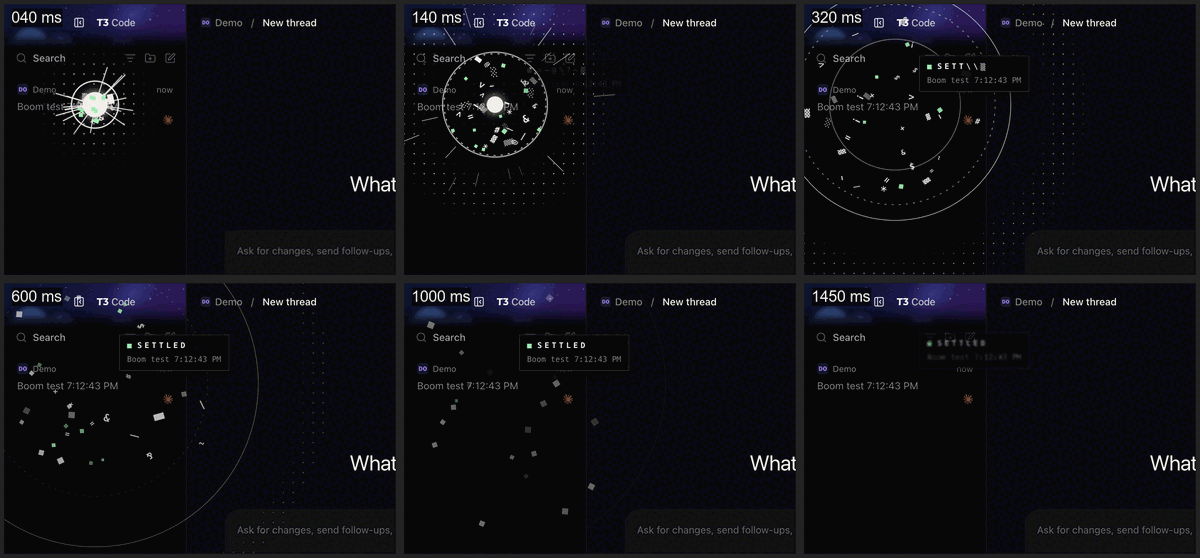
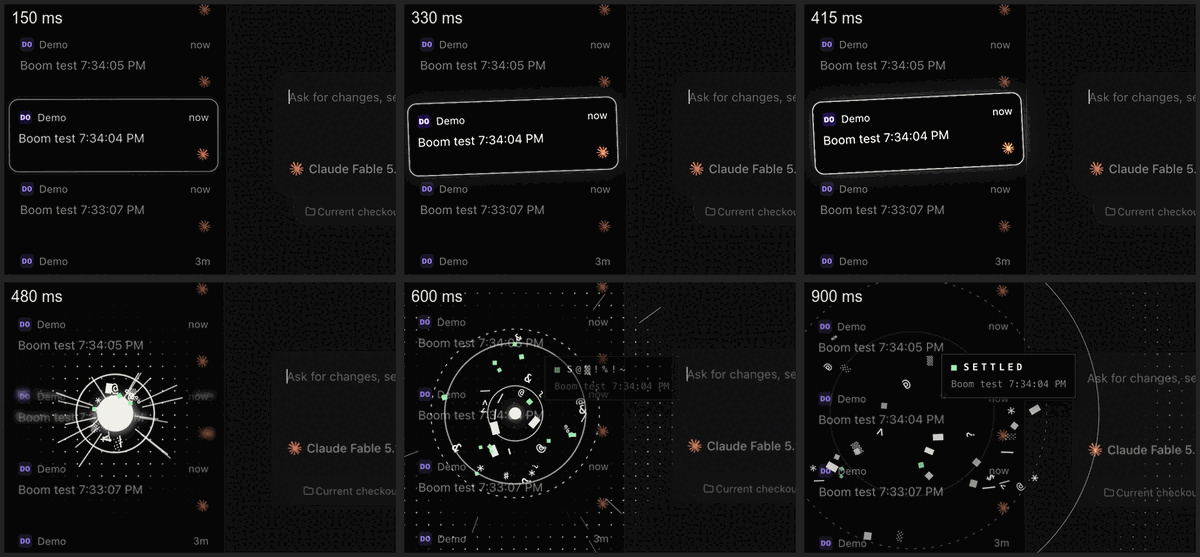
Settle Boom: start on the settle command and explode a copy of the row

diff --git a/examples/settle-boom/renderer.js b/examples/settle-boom/renderer.js
@@ -6,6 +6,7 @@ if (!window.t3SettleBoom) {
   const GLYPHS = "@#$%&*/=-+?!~<>\\|█▓▒░";
   const WORD = "SETTLED";
   const DURATION = 1800;
+  const CHARGE = 420;
   const MUTED_KEY = "t3ext.settle-boom.muted";
   const ROW = "[data-thread-item]";
 
@@ -17,37 +18,63 @@ if (!window.t3SettleBoom) {
   const easeOutCubic = (p) => 1 - (1 - p) ** 3;
   const monoFont = () => getComputedStyle(document.documentElement).getPropertyValue("--font-mono").trim() || "ui-monospace, Menlo, monospace";
 
-  // --- Where the thread was --------------------------------------------------------------------
+  // --- Which thread, and where ----------------------------------------------------------------
 
   // A row's data-thread-item is "<environmentId>:<threadId>".
-  const threadIdOf = (row) => row.getAttribute("data-thread-item").split(":").pop();
-  const rowFor = (threadId) => [...document.querySelectorAll(ROW)].find((row) => threadIdOf(row) === threadId);
+  const rowFor = (threadId) => [...document.querySelectorAll(ROW)].find((row) => row.getAttribute("data-thread-item").endsWith(`:${threadId}`));
 
-  // Clicking Settle removes the row before the server confirms, so remember rows as they are used.
-  const touched = new Map();
-  const remember = (event) => {
-    const row = event.target instanceof Element ? event.target.closest(ROW) : null;
-    if (row) touched.set(threadIdOf(row), { rect: row.getBoundingClientRect(), at: performance.now() });
+  const backgroundOf = (node) => {
+    for (let at = node; at; at = at.parentElement) {
+      const color = getComputedStyle(at).backgroundColor;
+      if (color && color !== "transparent" && !/rgba\(.*, 0\)$/.test(color)) return color;
+    }
+    return "black";
   };
-  for (const type of ["pointerdown", "contextmenu", "focusin"]) addEventListener(type, remember, true);
 
-  function originFor(threadId) {
-    const remembered = touched.get(threadId);
-    const rect = rowFor(threadId)?.getBoundingClientRect() ?? (remembered && performance.now() - remembered.at < 10_000 ? remembered.rect : null);
-    if (rect && rect.width > 0) return { x: rect.left + rect.width / 2, y: rect.top + rect.height / 2 };
-    return { x: innerWidth / 2, y: innerHeight / 2 };
+  // Everything the effect needs from the row, taken while it is still on screen: T3 moves it to
+  // Settled right after. Without a row (a filter hides it, its project is collapsed) the effect
+  // plays in the middle of the window.
+  function target(threadId, title) {
+    const row = rowFor(threadId);
+    const rect = row?.getBoundingClientRect();
+    if (!rect?.width) return { x: innerWidth / 2, y: innerHeight / 2, title: title ?? "" };
+    const copy = row.cloneNode(true);
+    copy.removeAttribute("data-thread-item");
+    return {
+      x: rect.left + rect.width / 2,
+      y: rect.top + rect.height / 2,
+      title: title ?? row.innerText.split("\n")[0],
+      row: { copy, rect, background: backgroundOf(row) },
+    };
   }
 
   // --- When a thread settles -------------------------------------------------------------------
 
-  // The server pushes `thread.updated` with `settledAt` set when a thread settles, by hand or
-  // automatically. The socket opened before this script ran, so the frames are read through the
-  // MessageEvent `data` getter instead of a listener. It runs inside T3's own handler, before
-  // T3 removes the row, so it must never throw.
+  // Settling in this window (the row's Settle button, the thread menu, ⌘⇧S) sends a
+  // `thread.settle` command before T3 moves the row, so the effect starts there. Settles from
+  // anywhere else (auto-settle, an agent, another window) arrive as a `thread.updated` push with
+  // `settledAt` set, read before T3 handles it. The socket opened before this script ran, so
+  // both hooks sit on prototypes. They run inside T3's own code, so they must never throw.
   const FRESH_MS = 30_000;
   const seen = new Set();
+  const sent = new Map();
 
-  function onFrame(text) {
+  const guard = (fn) => (...args) => {
+    try {
+      fn(...args);
+    } catch (error) {
+      console.error("[settle-boom]", error);
+    }
+  };
+
+  const onSend = guard((text) => {
+    const command = JSON.parse(text).payload;
+    if (command?.type !== "thread.settle") return;
+    sent.set(command.threadId, Date.now());
+    boom(target(command.threadId));
+  });
+
+  const onFrame = guard((text) => {
     const frame = JSON.parse(text);
     for (const value of Array.isArray(frame?.values) ? frame.values : []) {
       const thread = value?.kind === "thread.updated" ? value.thread : null;
@@ -55,9 +82,17 @@ if (!window.t3SettleBoom) {
       const key = `${thread.id}@${thread.settledAt}`;
       if (seen.has(key)) continue;
       seen.add(key);
-      if (Date.now() - Date.parse(thread.settledAt) < FRESH_MS) boom({ ...originFor(thread.id), title: thread.title });
+      if (Date.now() - Date.parse(thread.settledAt) >= FRESH_MS) continue;
+      if (Date.now() - (sent.get(thread.id) ?? 0) < FRESH_MS) continue;
+      boom(target(thread.id, thread.title));
     }
-  }
+  });
+
+  const send = WebSocket.prototype.send;
+  WebSocket.prototype.send = function (payload) {
+    if (typeof payload === "string" && payload.includes('"type":"thread.settle"')) onSend(payload);
+    return send.call(this, payload);
+  };
 
   const data = Object.getOwnPropertyDescriptor(MessageEvent.prototype, "data");
   const inspected = new WeakSet();
@@ -67,13 +102,7 @@ if (!window.t3SettleBoom) {
       const value = data.get.call(this);
       if (typeof value === "string" && !inspected.has(this) && this.target instanceof WebSocket) {
         inspected.add(this);
-        if (value.includes('"settledAt":"')) {
-          try {
-            onFrame(value);
-          } catch (error) {
-            console.error("[settle-boom]", error);
-          }
-        }
+        if (value.includes('"settledAt":"')) onFrame(value);
       }
       return value;
     },
@@ -134,23 +163,40 @@ if (!window.t3SettleBoom) {
     root.animate([{ transform: "none" }, ...hops, { transform: "none" }], { duration: 380, easing: "ease-out" });
   }
 
-  function boom({ x, y, title = "", pauseAt = null }) {
+  function ghost({ copy, rect, background }) {
+    const node = document.createElement("div");
+    node.className = "t3-settle-boom-ghost";
+    Object.assign(node.style, { left: `${rect.left}px`, top: `${rect.top}px`, width: `${rect.width}px`, height: `${rect.height}px`, background });
+    node.append(copy);
+    document.body.append(node);
+    return node;
+  }
+
+  function boom({ x, y, title = "", row = null, pauseAt = null }) {
     const calm = reducedMotion.matches;
+    const charge = row && !calm ? CHARGE : 0;
     scenes.push({
       x,
       y,
       calm,
+      charge,
       pauseAt,
       start: performance.now(),
       spin: rand(0, Math.PI * 2),
       debris: calm ? [] : debris(),
       sparks: calm ? [] : sparks(),
+      ghost: row ? ghost(row) : null,
       label: label(x, y, title),
+      shaken: calm,
     });
-    if (!calm) shake();
-    sound.play();
+    sound.play(charge / 1000);
     if (!frame) frame = requestAnimationFrame(tick);
   }
+
+  const removeScene = (scene) => {
+    scene.label.node.remove();
+    scene.ghost?.remove();
+  };
 
   function tick(now) {
     frame = 0;
@@ -169,8 +215,8 @@ if (!window.t3SettleBoom) {
     ctx.clearRect(0, 0, innerWidth, innerHeight);
     scenes = scenes.filter((scene) => {
       const elapsed = Math.min(now - scene.start, scene.pauseAt ?? Infinity);
-      if (elapsed >= DURATION) {
-        scene.label.node.remove();
+      if (elapsed >= scene.charge + DURATION) {
+        removeScene(scene);
         return false;
       }
       draw(scene, elapsed);
@@ -183,18 +229,47 @@ if (!window.t3SettleBoom) {
     }
   }
 
+  // `e` counts from the start; the blast starts after the row's charge.
   function draw(scene, e) {
+    drawGhost(scene, e);
+    const b = e - scene.charge;
+    if (b < 0) return;
+    if (!scene.shaken) {
+      scene.shaken = true;
+      shake();
+    }
     const { x, y } = scene;
     ctx.save();
-    if (!scene.calm) drawGrid(x, y, e);
-    drawRings(scene, e);
+    if (!scene.calm) drawGrid(x, y, b);
+    drawRings(scene, b);
     if (!scene.calm) {
-      drawCore(x, y, e);
-      drawSparks(scene, e);
-      drawDebris(scene, e);
+      drawCore(x, y, b);
+      drawSparks(scene, b);
+      drawDebris(scene, b);
     }
     ctx.restore();
-    drawLabel(scene, e);
+    drawLabel(scene, b);
+  }
+
+  // The row's copy shakes harder and brightens, like a failing effect in the Institute, then
+  // bursts. Each 45 ms hop has its own fixed offset, so a paused frame holds still.
+  function drawGhost(scene, e) {
+    const node = scene.ghost;
+    if (!node) return;
+    if (e < scene.charge) {
+      const p = e / scene.charge;
+      const hop = Math.floor(e / 45);
+      const jitter = (n) => (Math.sin(hop * 12.9898 + n * 78.233) * 43758.5453) % 1;
+      const amp = 1.5 + 5 * p;
+      node.style.transform = `translate(${(jitter(1) * amp).toFixed(2)}px, ${(jitter(2) * amp * 0.6).toFixed(2)}px) rotate(${(jitter(3) * p * 3).toFixed(2)}deg)`;
+      node.style.filter = `brightness(${(1 + p * 1.6).toFixed(2)}) contrast(${(1 + p * 0.4).toFixed(2)})`;
+      node.style.boxShadow = `0 0 0 1px rgba(${INK}, ${(0.25 + p * 0.6).toFixed(2)}), 0 0 ${(24 * p).toFixed(1)}px rgba(${INK}, ${(0.35 * p).toFixed(2)})`;
+      return;
+    }
+    const p = clamp01((e - scene.charge) / 140);
+    node.style.transform = `scale(${(1 + p * 0.12).toFixed(3)})`;
+    node.style.filter = `brightness(${(2.6 - p).toFixed(2)}) blur(${(p * 6).toFixed(2)}px)`;
+    node.style.opacity = String(1 - p);
   }
 
   // The dot grid lights up as the shock wave passes through it.
@@ -395,7 +470,14 @@ if (!window.t3SettleBoom) {
       thump.frequency.exponentialRampToValueAtTime(36, t + 0.35);
     }
 
-    function schedule(g, t) {
+    // While the row charges: quick rising sine ticks, the Institute's "running" blips.
+    function schedule(g, t, charge) {
+      if (charge > 0) {
+        [659.25, 783.99, 880].forEach((frequency, i) =>
+          voice(g, "sine", frequency, t + (i * charge) / 3, { attack: 0.002, decay: 0.08, sustain: 0, hold: 0.03, release: 0.1, peak: 0.3 }, [g.out, g.wet]),
+        ); // E5 G5 A5
+        t += charge;
+      }
       blast(g, t);
       fatSaw(g, 155.56, t, { attack: 0.01, decay: 0.5, sustain: 0.3, hold: 0.0625, release: 1.5, peak: 0.45 }); // D#3
       fatSaw(g, 32.7, t + 0.1, { attack: 0.01, decay: 0.5, sustain: 0.3, hold: 0.5, release: 1.2, peak: 0.55 }); // C1
@@ -406,15 +488,15 @@ if (!window.t3SettleBoom) {
 
     const context = () => (live ??= graph(new AudioContext())).audio;
 
-    function play() {
+    function play(charge = 0) {
       if (localStorage.getItem(MUTED_KEY) === "1") return;
       if (context().state === "suspended") context().resume();
-      schedule(live, context().currentTime + 0.01);
+      schedule(live, context().currentTime + 0.01, charge);
     }
 
-    function render(seconds = 3.2, sampleRate = 44_100) {
+    function render(charge = CHARGE / 1000, seconds = 3.6, sampleRate = 44_100) {
       const offline = new OfflineAudioContext(2, Math.ceil(seconds * sampleRate), sampleRate);
-      schedule(graph(offline), 0.01);
+      schedule(graph(offline), 0.01, charge);
       return offline.startRendering();
     }
 
@@ -425,11 +507,12 @@ if (!window.t3SettleBoom) {
   })();
 
   window.t3SettleBoom = {
-    // Plays the effect at a point (default: the middle of the window). `pauseAt` freezes it at
-    // that many milliseconds, for screenshots.
-    play: ({ x = innerWidth / 2, y = innerHeight / 2, title = "", pauseAt = null } = {}) => boom({ x, y, title, pauseAt }),
+    // Plays the effect on a thread's row, or at a point (default: the middle of the window).
+    // `pauseAt` freezes it at that many milliseconds, for screenshots.
+    play: ({ threadId = null, x = innerWidth / 2, y = innerHeight / 2, title = "", pauseAt = null } = {}) =>
+      boom({ ...(threadId ? target(threadId) : { x, y, title }), pauseAt }),
     clear: () => {
-      for (const scene of scenes) scene.label.node.remove();
+      scenes.forEach(removeScene);
       scenes = [];
     },
     get muted() {

diff --git a/examples/settle-boom/style.css b/examples/settle-boom/style.css
@@ -7,6 +7,16 @@
   z-index: 2147483646;
 }
 
+.t3-settle-boom-ghost {
+  position: fixed;
+  z-index: 2147483645;
+  pointer-events: none;
+  list-style: none;
+  border-radius: var(--radius, 0.625rem);
+  transform-origin: center;
+  will-change: transform, filter, opacity;
+}
+
 .t3-settle-boom-label {
   position: fixed;
   z-index: 2147483647;

diff --git a/examples/settle-boom/README.md b/examples/settle-boom/README.md
@@ -1,33 +1,39 @@
 # Settle Boom
 
-When a thread settles, this extension sets off a small explosion where its sidebar row was, with a synthesized boom. The look and sound follow Kit Langton's [Effect Institute](https://www.effect.institute/): off-white ink on black, a dot grid, thin rings, glitch glyphs, small green squares, and Tone.js-style voices.
+When a thread settles, its sidebar row shakes, charges up and explodes, with a synthesized boom. The look and sound follow Kit Langton's [Effect Institute](https://www.effect.institute/): off-white ink on black, a dot grid, thin rings, glitch glyphs, small green squares, and Tone.js-style voices.
 
-![Frames at 40, 140, 320, 600, 1000 and 1450 ms](preview.png)
+![Frames at 150, 330, 415, 480, 600 and 900 ms](preview.png)
 
 ## What it does
 
-1. **Flash:** a white core flashes.
-2. **Rings:** three thin rings expand, the middle one dashed and turning.
-3. **Dot grid:** a shock wave lights up a dot grid as it passes.
-4. **Debris:** sparks streak out, and glyphs fly out, flicker through `@#$%&*/=-+?!~<>\|█▓▒░` and cool into squares.
-5. **Label:** a "■ SETTLED" label with the thread's title resolves letter by letter, then blurs away.
-6. **Shake:** the window shakes slightly.
+1. **Charge:** a copy of the row stays where the row was, then shakes harder and brightens for 0.4 seconds while three quick rising ticks play. It then bursts.
+2. **Flash:** a white core flashes.
+3. **Rings:** three thin rings expand, the middle one dashed and turning.
+4. **Dot grid:** a shock wave lights up a dot grid as it passes.
+5. **Debris:** sparks streak out, and glyphs fly out, flicker through `@#$%&*/=-+?!~<>\|█▓▒░` and cool into squares.
+6. **Label:** a "■ SETTLED" label with the thread's title resolves letter by letter, then blurs away.
+7. **Shake:** the window shakes slightly.
 
-The sound has three parts:
+The sound has four parts:
 
+- **Ticks:** three short rising sine blips while the row charges, like Effect Institute's "running" sound.
 - **Blast:** a filtered noise burst and a sub thump.
 - **Stab:** Effect Institute's distorted, detuned-saw "death" stab and low rumble.
 - **Chime:** its triangle "success" triad, C5, E5 and G5, through reverb.
 
-With **Reduce motion** on in macOS, only one ring, the label and the sound play.
+With **Reduce motion** on in macOS, the row fades instead of shaking, and only one ring, the label and the sound play.
 
 It fires for every settle: the Settle button, a menu, a keyboard shortcut, auto-settle, or an agent settling through T3's tools.
 
 ## How it knows
 
-T3's server sends the window a `thread.updated` message whose `thread.settledAt` is set. The window's connection opens before `renderer.js` runs, so the extension reads messages through the `MessageEvent` `data` getter instead of adding a listener. The getter runs inside T3's own message handler. It explodes only for a `settledAt` it has not seen and that is less than 30 seconds old, so reloads and old settled threads stay quiet.
+**Settling in this window.** The row's Settle button, the thread menu and ⌘⇧S all send a `thread.settle` command to T3's server. T3 moves the row to Settled right after, so the extension catches the command as it is sent, copies the row, and starts there. It wraps `WebSocket.prototype.send`, because T3's connection opens before `renderer.js` runs.
 
-**Where it explodes:** a click removes the row before the server answers, so the extension remembers rows as you press, right-click or focus them. When a thread settles without that, for example through auto-settle, the row is still on screen when the message arrives. Rows are found by `data-thread-item="<environmentId>:<threadId>"`. If a T3 update renames that attribute, the explosion falls back to the middle of the window.
+**Settling anywhere else.** Auto-settle, an agent, or another window: the server sends a `thread.updated` message with `thread.settledAt` set. The extension reads it through the `MessageEvent` `data` getter, inside T3's own handler, before T3 moves the row.
+
+It explodes once per settle. It skips a `settledAt` more than 30 seconds old, so reloads and old settled threads stay quiet.
+
+Rows are found by `data-thread-item="<environmentId>:<threadId>"`. If the row is not on screen (a filter hides it, or its project is collapsed), or a T3 update renames that attribute, the effect plays without the charge in the middle of the window.
 
 ## Controls
 
@@ -35,6 +41,7 @@ In the window's DevTools console:
 
 ```js
 t3SettleBoom.play();                         // try it in the middle of the window
+t3SettleBoom.play({ threadId: "…" });       // on a thread's row, without settling it
 t3SettleBoom.play({ x: 120, y: 140, title: "Fix the build" });
 t3SettleBoom.muted = true;                   // saved in localStorage
 await t3SettleBoom.renderSound();            // the sound as an AudioBuffer, rendered offline
